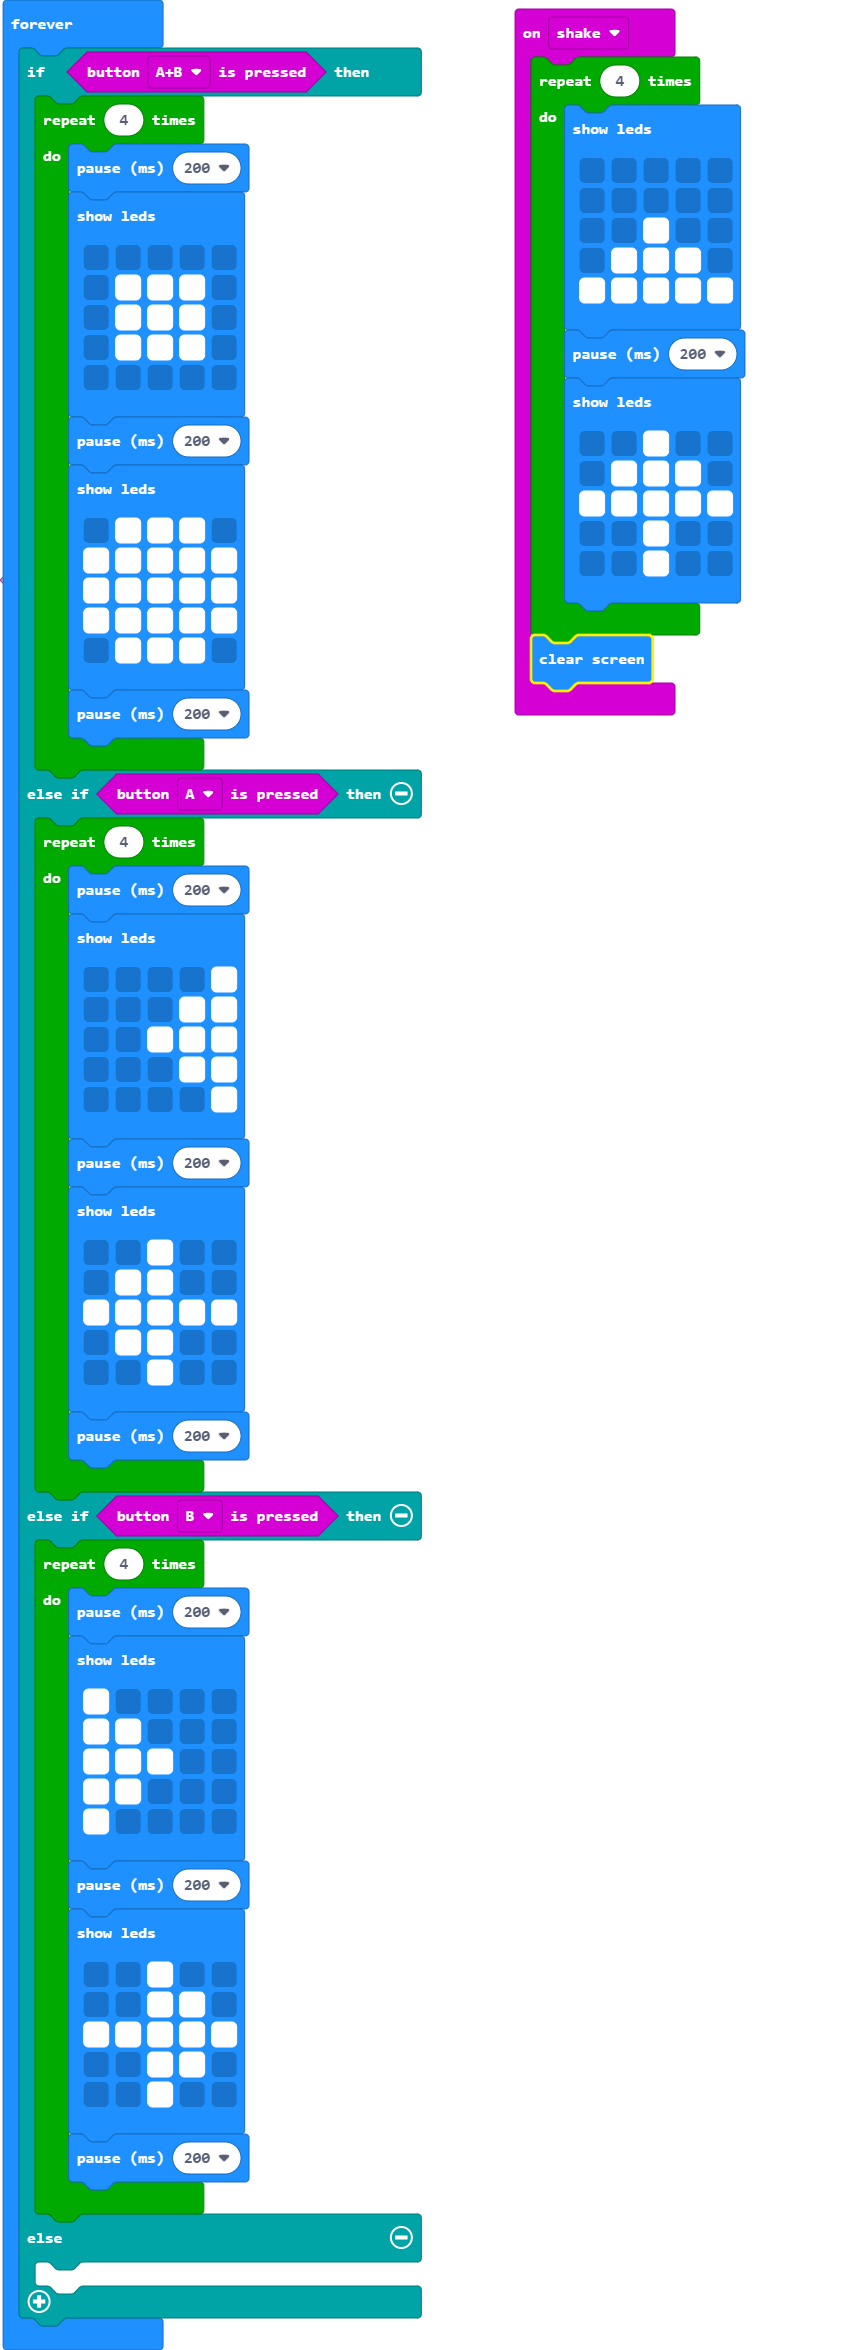
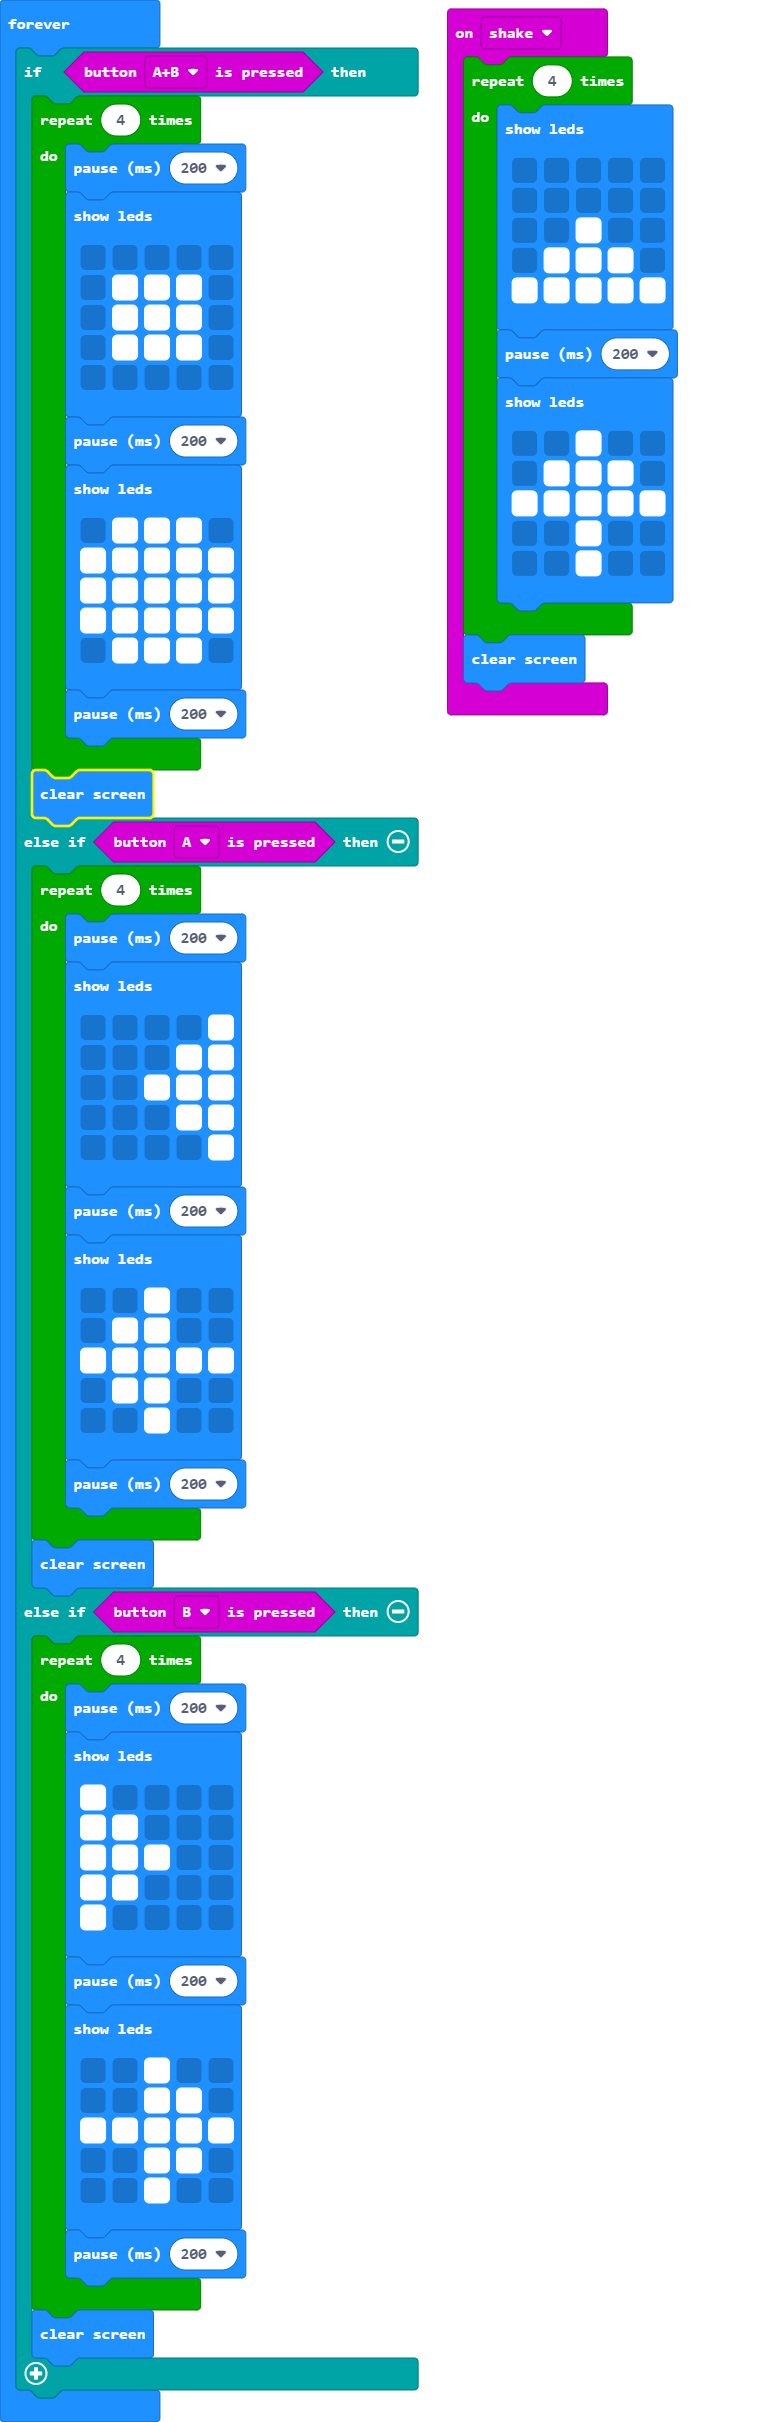
accelerometer fixed

Changed region(s): [[0.0, 0.0, 0.5531, 1.0], [0.4917, 0.0, 0.8912, 0.3106]]

diff --git a/main.ts b/main.ts
@@ -39,6 +39,7 @@ basic.forever(function () {
                 `)
             basic.pause(200)
         }
+        basic.clearScreen()
     } else if (input.buttonIsPressed(Button.A)) {
         for (let index = 0; index < 4; index++) {
             basic.pause(200)
@@ -59,6 +60,7 @@ basic.forever(function () {
                 `)
             basic.pause(200)
         }
+        basic.clearScreen()
     } else if (input.buttonIsPressed(Button.B)) {
         for (let index = 0; index < 4; index++) {
             basic.pause(200)
@@ -79,7 +81,6 @@ basic.forever(function () {
                 `)
             basic.pause(200)
         }
-    } else {
-    	
+        basic.clearScreen()
     }
 })
